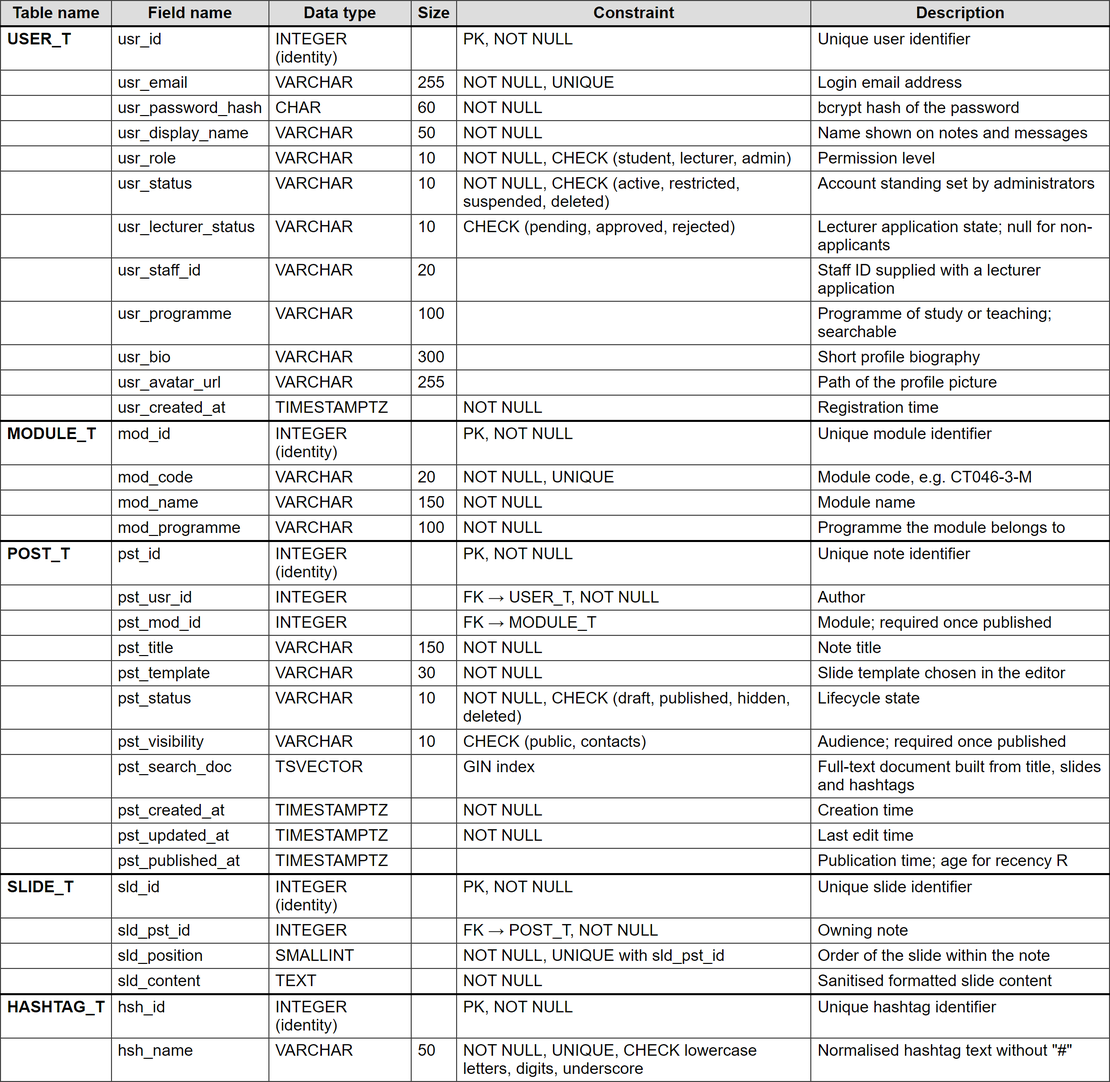
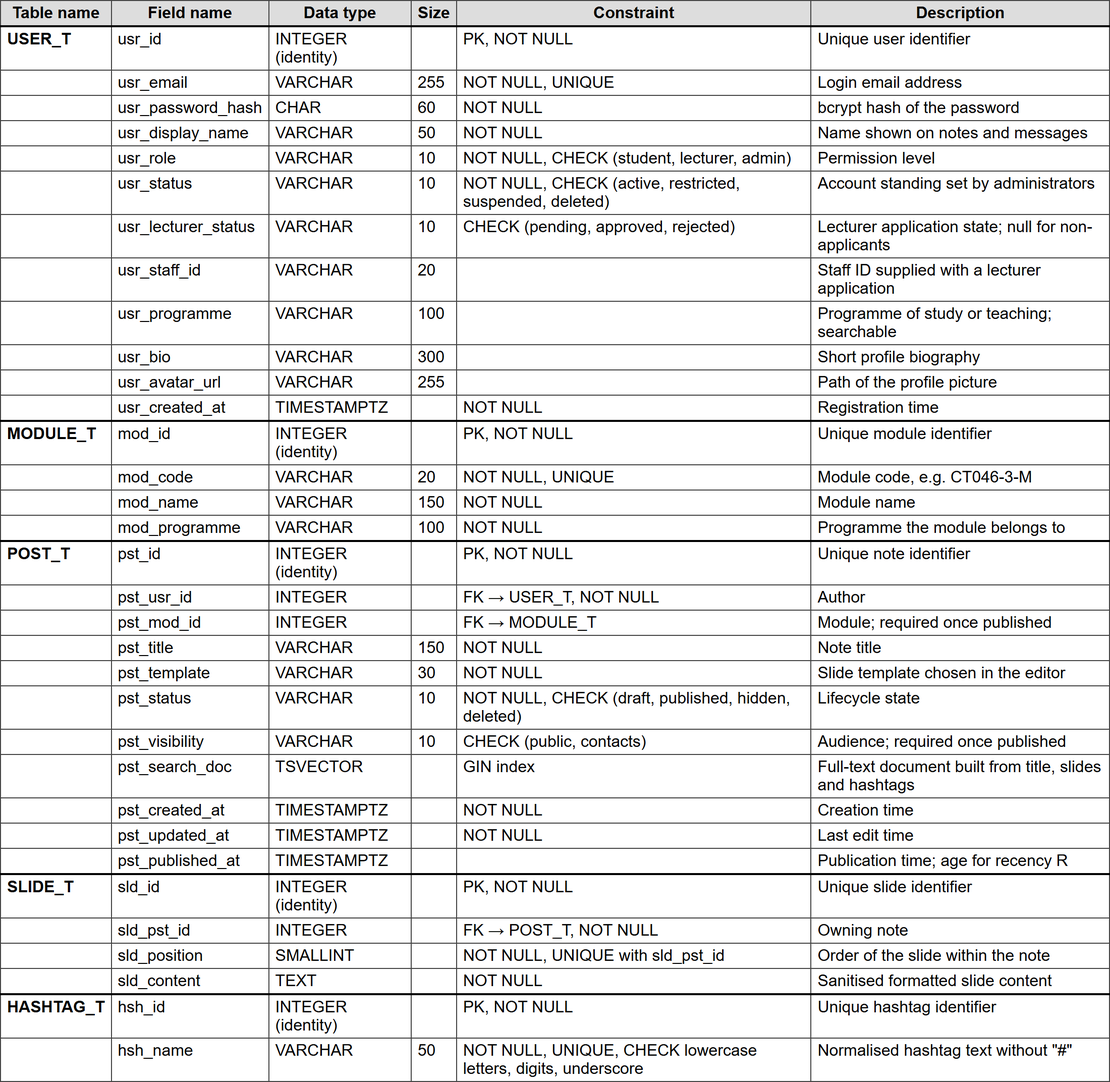
Add snapshot and rate limit tables to Chapter 4.3
Schema table gains FEED_SNAPSHOT_T and RATE_LIMIT_T, ERD prose explains FOLLOW_T, the snapshot and the counter table, later indexes are listed, schema images regenerated (now four) and CHAPTER4.md rebuilt.

diff --git a/docs/chapter4/CHAPTER4.md b/docs/chapter4/CHAPTER4.md
@@ -20,7 +20,7 @@
 
 	The Administrator actor is placed on the opposite side of the system boundary because its use cases concern moderation rather than content. Administrators review reported content (UC20), suspend, restrict or delete accounts (UC21), and approve lecturer registrations (UC22). The last of these was added during design and is not listed in the Investigation Report; without it, any user could select the lecturer role at registration and verify their own notes, which would undermine the lecturer validation component that carries the joint-highest weight in the ranking formula (Section 2.3.4.4). Administrators also share the Search Content (UC14) and Log Out (UC03) use cases, the former supporting moderation searches by username or hashtag as specified in Section 1.6.4.
 
-	Four relationships refine the base use cases. Assign Module and Hashtags is an included use case of Create Slide Note because hashtags are mandatory at creation; the relevance component of the ranking formula divides by the number of hashtags on a post, so a note without hashtags cannot be scored. Save Draft, Reply to Comment, Filter by Lecturer or Date Range, and Send Message Request are modelled as extensions because each occurs only under a condition: the author chooses not to publish yet, the user responds to an existing comment, the user narrows a result set, or the recipient of a post-anchored message is not yet a contact. The last extension implements FR6, which requires approval before a non-contact can deliver a message.
+	Four relationships refine the base use cases. Assign Module and Hashtags is an included use case of Create Slide Note because hashtags are mandatory at creation; the relevance component of the ranking formula divides by the number of hashtags on a post, so a note without hashtags cannot be scored. Save Draft, Reply to Comment, Filter by Lecturer or Date Range, and Send Message Request are modelled as extensions because each occurs only under a condition: the author chooses not to publish yet, the user responds to an existing comment, the user narrows a result set, or the recipient of a post-anchored message is not yet a friend (a user who follows the sender and is followed back). The last extension implements FR6, which requires approval before a non-friend can deliver a message.
 
 	Three low-priority requirements from Table 14 are not represented as use cases. Background audio on slide notes (FR17) and peer annotation (FR18) were removed from the Part II scope, and filtering by academic term (FR15) was reworked into a published-date filter. The justification for each change is recorded in the Sprint 0 review, consistent with the agreement with the supervisor that low-priority requirements are cut or reworked only with written justification.
 
@@ -81,7 +81,7 @@
 | Preconditions | The user is logged in. |
 | Postconditions | Updated profile details are stored and shown on the user's notes and profile page. |
 | Standard Process | 1. User opens their profile page. <br> 2. System displays profile details and the user's notes. <br> 3. User selects "Edit Profile". <br> 4. User edits the fields and saves. <br> 5. System validates and stores the changes. <br> 6. System displays the updated profile. |
-| Alternative Process | **Step 1a: User views another user's profile** <br> 1a.1 System displays that user's public details and only the notes the viewer is allowed to see (public, or contacts-only if the two users are contacts). <br> 1a.2 Use case ends without editing. |
+| Alternative Process | **Step 1a: User views another user's profile** <br> 1a.1 System displays that user's public details and only the notes the viewer is allowed to see (public, or contacts-only if the two users are friends, meaning they follow each other). <br> 1a.2 Use case ends without editing. |
 | Exception Flow | **Step 5a: Invalid input** <br> 5a.1 System rejects an empty display name or an image larger than 2 MB and returns to step 4. |
 
 *Table 4.5: UC05 Create Slide Note use case specification*
@@ -117,13 +117,13 @@
 | **Component** | **Description** |
 | --- | --- |
 | Use case | UC07_Publish Note |
-| Description | Allows an author to publish a completed note with a chosen visibility. Public notes enter every viewer's ranked feed; contacts-only notes are visible to the author's contacts. |
+| Description | Allows an author to publish a completed note with a chosen visibility. Public notes enter every viewer's ranked feed; contacts-only notes are visible to the author's friends (users who follow each other). |
 | Actors | Student, Lecturer |
 | Requirements | FR10, FR9; FR2 (lecturer badge on lecturer-authored notes) |
 | Preconditions | The note has a title, at least one non-empty slide, a module and at least one hashtag. |
 | Postconditions | The note is stored with status "published", a visibility value and a publication time, and becomes eligible for the feed and search. |
 | Standard Process | 1. User selects "Publish". <br> 2. System displays three visibility options of equal size: Public, Contacts only, Keep as private draft. <br> 3. User selects Public. <br> 4. System validates completeness. <br> 5. System stores the note as published and records the publication time. <br> 6. System opens the published note. |
-| Alternative Process | **Step 3a: User selects Contacts only** <br> 3a.1 System publishes the note visible only to the author's contacts. <br> **Step 3b: User selects Keep as private draft** <br> 3b.1 System performs UC06_Save Draft instead. <br> **Step 6a: Author is an approved lecturer** <br> 6a.1 System shows the lecturer checkmark badge on the author's picture in the note. |
+| Alternative Process | **Step 3a: User selects Contacts only** <br> 3a.1 System publishes the note visible only to the author's friends. <br> **Step 3b: User selects Keep as private draft** <br> 3b.1 System performs UC06_Save Draft instead. <br> **Step 6a: Author is an approved lecturer** <br> 6a.1 System shows the lecturer checkmark badge on the author's picture in the note. |
 | Exception Flow | **Step 4a: Note incomplete** <br> 4a.1 System lists the missing elements and returns to the editor. |
 
 *Table 4.8: UC08 Edit or Delete Own Note use case specification*
@@ -233,9 +233,9 @@
 | Actors | Student, Lecturer |
 | Requirements | FR7, FR6 (extension Send Message Request), Objective 4 |
 | Preconditions | The user is logged in, can see the note, and is not its author. |
-| Postconditions | A message referencing the note is delivered to the author's conversation, or held as a pending message request if the two users are not contacts. |
-| Standard Process | 1. User selects "Message author" on a note. <br> 2. System opens a chat window with the note preview card attached. <br> 3. User types a message and sends it. <br> 4. System confirms the two users are contacts. <br> 5. System stores the message with the note reference and delivers it in real time. <br> 6. Recipient sees the message and note card in the conversation. |
-| Alternative Process | **Step 4a: Users are not contacts (Send Message Request)** <br> 4a.1 System stores the message as a pending message request instead of delivering it to the conversation. <br> 4a.2 System notifies the recipient of a new request. <br> 4a.3 Sender sees "Request sent; you can message freely once accepted". |
+| Postconditions | A message referencing the note is delivered to the author's conversation, or held as a pending message request if the two users are not friends. |
+| Standard Process | 1. User selects "Message author" on a note. <br> 2. System opens a chat window with the note preview card attached. <br> 3. User types a message and sends it. <br> 4. System confirms the two users are friends (each follows the other). <br> 5. System stores the message with the note reference and delivers it in real time. <br> 6. Recipient sees the message and note card in the conversation. |
+| Alternative Process | **Step 4a: Users are not friends (Send Message Request)** <br> 4a.1 System stores the message as a pending message request instead of delivering it to the conversation. <br> 4a.2 System notifies the recipient of a new request. <br> 4a.3 Sender sees "Request sent; you can message freely once accepted". |
 | Exception Flow | **Step 4b: A pending request already exists** <br> 4b.1 System informs the sender and does not create another request. <br> **Step 4c: Recipient previously declined the sender** <br> 4c.1 System does not deliver the request and shows the same "Request sent" message, so the decline is not disclosed. |
 
 *Table 4.16: UC16 Respond to Message Request use case specification*
@@ -243,24 +243,24 @@
 | **Component** | **Description** |
 | --- | --- |
 | Use case | UC16_Respond to Message Request |
-| Description | Allows a recipient to accept or decline a message request from a non-contact. Accepting makes both users contacts and delivers the held message. |
+| Description | Allows a recipient to accept or decline a message request from a non-friend. Accepting opens a conversation and delivers the held message, without making the two users friends. |
 | Actors | Student, Lecturer |
 | Requirements | FR6 |
 | Preconditions | The user has at least one pending message request. |
-| Postconditions | The request is accepted (users become contacts and a conversation opens) or declined (no conversation is created). |
-| Standard Process | 1. User opens "Message Requests". <br> 2. System lists pending requests with sender, attached note card and first message. <br> 3. User selects "Accept". <br> 4. System records both users as contacts, creates the conversation and moves the held message into it. <br> 5. System notifies the sender in real time. |
+| Postconditions | The request is accepted (a conversation opens, but the users do not become friends) or declined (no conversation is created). |
+| Standard Process | 1. User opens "Message Requests". <br> 2. System lists pending requests with sender, attached note card and first message. <br> 3. User selects "Accept". <br> 4. System creates the direct conversation and moves the held message into it. <br> 5. System notifies the sender in real time. |
 | Alternative Process | **Step 3a: User declines** <br> 3a.1 System marks the request declined and removes it from the list. The sender is not notified. |
 | Exception Flow | **Step 4a: Sender account suspended meanwhile** <br> 4a.1 System removes the request and displays "This user is unavailable". |
 
-*Table 4.17: UC17 Chat with Contact use case specification*
+*Table 4.17: UC17 Chat with Friend use case specification*
 
 | **Component** | **Description** |
 | --- | --- |
-| Use case | UC17_Chat with Contact |
-| Description | Allows two contacts to exchange private messages in real time, with optional note cards attached. |
+| Use case | UC17_Chat with Friend |
+| Description | Allows two friends to exchange private messages in real time, with optional note cards attached. |
 | Actors | Student, Lecturer |
 | Requirements | FR9, IR deliverable "direct private messaging with established friends" |
-| Preconditions | Both users are contacts. |
+| Preconditions | Both users are friends (they follow each other). |
 | Postconditions | Messages are stored and delivered to the other participant. |
 | Standard Process | 1. User opens Messages. <br> 2. System lists conversations ordered by latest message. <br> 3. User opens a conversation. <br> 4. System loads recent messages. <br> 5. User types and sends a message. <br> 6. System stores it and pushes it to the other participant over the socket connection. |
 | Alternative Process | **Step 6a: Recipient offline** <br> 6a.1 The message is stored and appears, with an unread count, when the recipient next opens Messages. <br> **Step 5a: User attaches a note** <br> 5a.1 User selects "Attach note" and picks a note they can see; the message carries the note card. |
@@ -271,13 +271,13 @@
 | **Component** | **Description** |
 | --- | --- |
 | Use case | UC18_Manage Group Chat |
-| Description | Allows a user to create a named group chat with contacts for coursework teams, add or remove members, and leave the group. |
+| Description | Allows a user to create a named group chat with friends for coursework teams, add or remove members, and leave the group. |
 | Actors | Student, Lecturer |
 | Requirements | FR13 |
-| Preconditions | The user is logged in and has at least two contacts. |
+| Preconditions | The user is logged in and has at least two friends. |
 | Postconditions | A named group conversation exists with the selected members, who can exchange messages as in UC17. |
-| Standard Process | 1. User selects "New Group". <br> 2. System displays a name field and the user's contacts. <br> 3. User enters a group name and selects two or more contacts. <br> 4. User selects "Create". <br> 5. System creates the group with the user as owner and notifies members. |
-| Alternative Process | **Step 1a: Owner manages an existing group** <br> 1a.1 Owner renames the group, adds contacts or removes members. <br> **Step 1b: Member leaves** <br> 1b.1 Member selects "Leave group" and no longer receives its messages. |
+| Standard Process | 1. User selects "New Group". <br> 2. System displays a name field and the user's friends. <br> 3. User enters a group name and selects two or more friends. <br> 4. User selects "Create". <br> 5. System creates the group with the user as owner and notifies members. |
+| Alternative Process | **Step 1a: Owner manages an existing group** <br> 1a.1 Owner renames the group, adds friends or removes members. <br> **Step 1b: Member leaves** <br> 1b.1 Member selects "Leave group" and no longer receives its messages. |
 | Exception Flow | **Step 4a: Name empty or fewer than two members** <br> 4a.1 System disables "Create" and states the requirement. |
 
 *Table 4.19: UC19 Super Like (Verify) Note use case specification*
@@ -344,7 +344,7 @@
 
 	Figure 4.2 shows the static structure of PARP as domain classes, their attributes and operations, and the two services that hold the system's core logic. The User hierarchy mirrors the use case diagram: User is abstract and holds identity, credentials, role and account status together with the operations every account shares, namely registration, login, logout, profile update and search. Student adds the content and communication operations, Lecturer specialises Student with the Super Like operations and its staff identifier, and Administrator carries the moderation operations. Modelling Lecturer as a subclass of Student, rather than as a sibling, expresses in the type structure the same rule the server enforces at run time: a lecturer can do everything a student can, plus verification.
 
-	Post is the central content class and is composed of one or more Slide objects, drawn as composition because a slide has no existence outside its note and is deleted with it. Comment is likewise composed into Post and has a reflexive association that represents one level of replies. Post is associated with Hashtag in a many-to-many relationship, and with Like, Verification, Bookmark, Report and Interaction as association classes that record who acted on which note and when. The messaging classes are separated from content: MessageRequest holds a first message from a non-contact and creates a Conversation when accepted, Conversation is composed of Message objects, and both MessageRequest and Message carry an optional association to Post, which is the class-level expression of post-anchored messaging (FR7).
+	Post is the central content class and is composed of one or more Slide objects, drawn as composition because a slide has no existence outside its note and is deleted with it. Comment is likewise composed into Post and has a reflexive association that represents one level of replies. Post is associated with Hashtag in a many-to-many relationship, and with Like, Verification, Bookmark, Report and Interaction as association classes that record who acted on which note and when. The messaging classes are separated from content: MessageRequest holds a first message from a non-friend and creates a Conversation when accepted, Conversation is composed of Message objects, and both MessageRequest and Message carry an optional association to Post, which is the class-level expression of post-anchored messaging (FR7).
 
 	RankingService and SearchService are drawn as service classes because they own behaviour that spans many entities. RankingService exposes one operation per component of the scoring formula in Section 2.3.4, namely engagement, recency, validation and relevance, together with buildInterestVector and the composite score operation. Separating the components into individual operations allows each to be unit tested against fixed inputs, which is the verification approach committed to in Section 2.3.4.10. Every weight and constant is read from RankingConfig, a single configuration object whose initial values are those of Section 2.3.4.7, so that the re-evaluation of the weights required by NFR5 after user acceptance testing changes one file and no scoring code.
 
@@ -380,7 +380,7 @@
 
 *Figure 4.7: Activity diagram for post-anchored messaging*
 
-	Figure 4.7 shows how a user messages the author of a note (UC15 and UC16), which delivers Objective 4. The message always carries the note it was sent from, so the conversation opens with its academic context attached. The first decision applies FR6: messages between contacts are delivered immediately, while a message to a non-contact is held as a request. Duplicate requests are prevented, and the recipient's decision determines the outcome. Accepting adds both users as contacts, creates the conversation and moves the held message into it; declining closes the request without notifying the sender. This design reflects the survey finding that 75 percent of respondents wanted approval before receiving messages from non-contacts, while keeping the note-anchored first message that 78.1 percent rated useful.
+	Figure 4.7 shows how a user messages the author of a note (UC15 and UC16), which delivers Objective 4. The message always carries the note it was sent from, so the conversation opens with its academic context attached. The first decision applies FR6: messages between friends (two users who follow each other) are delivered immediately, while a message to a non-friend is held as a request. Duplicate requests are prevented, and the recipient's decision determines the outcome. Accepting creates the conversation and moves the held message into it, but does not make the two users friends; declining closes the request without notifying the sender. This design reflects the survey finding that 75 percent of respondents wanted approval before receiving messages from non-friends, while keeping the note-anchored first message that 78.1 percent rated useful.
 
 # 4.2.5 Sequence Diagrams
 
@@ -414,7 +414,7 @@
 
 *Figure 4.12: Sequence diagram for post-anchored messaging*
 
-	Figure 4.12 shows messaging over Socket.io, where the connection is authenticated with the same JSON Web Token during the handshake, so every event already carries a verified sender. MessagingService checks the contact relationship first. For contacts, the message is stored with its post reference and pushed to a room named after the recipient, so delivery reaches every device on which the recipient is connected. For non-contacts, the message is stored as a pending request, and a partial unique index in the database rejects a second pending request between the same pair, so the duplicate check cannot be bypassed by concurrent requests. Acceptance is processed in one transaction that updates the request, creates the two contact rows and the conversation, and moves the held message, so the two users never become contacts without the conversation that should accompany it.
+	Figure 4.12 shows messaging over Socket.io, where the connection is authenticated with the same JSON Web Token during the handshake, so every event already carries a verified sender. MessagingService checks friendship first, which is a mutual follow: a row in FOLLOW_T in each direction. For friends, the message is stored with its post reference and pushed to a room named after the recipient, so delivery reaches every device on which the recipient is connected. For non-friends, the message is stored as a pending request, and a partial unique index in the database rejects a second pending request between the same pair, so the duplicate check cannot be bypassed by concurrent requests. Acceptance is processed in one transaction that updates the request, creates the conversation and moves the held message, so a request is never marked accepted without the conversation that should accompany it. Acceptance does not create follow rows, because friendship is decided only by the users' own follows.
 
 # 4.3 Database Design
 
@@ -424,19 +424,21 @@
 
 *Figure 4.13: PARP entity relationship diagram (crow's foot notation)*
 
-	Figure 4.13 presents the relational data model of PARP as nineteen entities in crow's foot notation. The model is organised around two central entities. USER_T holds every account, with a single role attribute distinguishing students, lecturers and administrators rather than three separate tables, because the three roles share all identity attributes and a lecturer differs from a student only in permissions. POST_T holds each slide note and references its author and its module; the slides themselves are stored in SLIDE_T as an ordered one-to-many child, since a note contains a variable number of slides that must keep their sequence. A post may exist without a module only while it is a draft, and a check constraint enforces that a published post always has a module, a visibility value and a publication time, which keeps the feed and search queries free of incomplete rows.
+	Figure 4.13 presents the relational data model of PARP as twenty-one entities in crow's foot notation. The model is organised around two central entities. USER_T holds every account, with a single role attribute distinguishing students, lecturers and administrators rather than three separate tables, because the three roles share all identity attributes and a lecturer differs from a student only in permissions. POST_T holds each slide note and references its author and its module; the slides themselves are stored in SLIDE_T as an ordered one-to-many child, since a note contains a variable number of slides that must keep their sequence. A post may exist without a module only while it is a draft, and a check constraint enforces that a published post always has a module, a visibility value and a publication time, which keeps the feed and search queries free of incomplete rows.
 
 	The entities around POST_T map directly to the four components of the ranking formula in Section 2.3.4. LIKE_T and COMMENT_T provide the like and comment counts for the engagement component E. The publication time on POST_T provides the age for the recency component R. VERIFICATION_T records each lecturer Super Like and, together with the author's role, determines the lecturer validation component V. HASHTAG_T, linked to posts through the associative entity POST_HASHTAG_T, and INTERACTION_T together provide the relevance component M: INTERACTION_T is an append-only log of the views, likes and comments each user performs, from which the viewer's decayed interest weight for each hashtag is calculated. Storing raw interactions instead of a pre-computed interest vector keeps the 14-day decay exact and allows the weights to be re-tuned after user acceptance testing (NFR5) without migrating stored data.
 
-	The remaining entities serve engagement, moderation and messaging. COMMENT_T references itself through cmt_parent_id to support one level of replies (FR16), and COMMENT_LIKE_T supplies the like counts that order student comments beneath pinned lecturer comments. BOOKMARK_T implements the saved-notes list (FR14), and REPORT_T together with ACCOUNT_ACTION_T record the moderation workflow, including which administrator resolved each report or changed each account status. FOLLOW_T records who follows whom, one row per direction; when two users follow each other they are friends, who may see each other's contacts-only notes (FR10) and message each other directly. Messaging is separated into MESSAGE_REQUEST_T, which holds a first message from a non-friend until the recipient approves it (FR6), and CONVERSATION_T, CONV_MEMBER_T and MESSAGE_T, which hold direct and group conversations (FR13); approving a request opens that conversation without making the two users friends. Both MESSAGE_REQUEST_T and MESSAGE_T carry an optional reference to POST_T, which is how a message is anchored to a specific note (FR7, Objective 4). For legibility, Figure 4.13 draws one relationship line per pair of entities; the second foreign keys to USER_T in FOLLOW_T, MESSAGE_REQUEST_T, REPORT_T, CONVERSATION_T and ACCOUNT_ACTION_T are listed in Table 4.23.
+	The remaining entities serve engagement, moderation and messaging. COMMENT_T references itself through cmt_parent_id to support one level of replies (FR16), and COMMENT_LIKE_T supplies the like counts that order student comments beneath pinned lecturer comments. BOOKMARK_T implements the saved-notes list (FR14), and REPORT_T together with ACCOUNT_ACTION_T record the moderation workflow, including which administrator resolved each report or changed each account status. FOLLOW_T records who follows whom, one row per direction; when two users follow each other they are friends, who may see each other's contacts-only notes (FR10) and message each other directly. Messaging is separated into MESSAGE_REQUEST_T, which holds a first message from a non-friend until the recipient approves it (FR6), and CONVERSATION_T, CONV_MEMBER_T and MESSAGE_T, which hold direct and group conversations (FR13); approving a request opens that conversation without making the two users friends. Both MESSAGE_REQUEST_T and MESSAGE_T carry an optional reference to POST_T, which is how a message is anchored to a specific note (FR7, Objective 4). For legibility, Figure 4.13 draws one relationship line per pair of entities, except FOLLOW_T, which is drawn twice because it references USER_T as both follower and followee; the second foreign keys to USER_T in MESSAGE_REQUEST_T, REPORT_T, CONVERSATION_T and ACCOUNT_ACTION_T are listed in Table 4.23.
+
+	Two entities were added after the first design to meet the scale and reliability targets, and a third replaced an earlier one. FOLLOW_T replaced the original CONTACT_T, which stored a symmetric pair created by an accepted message request. A directed follow with a composite primary key and a check that a user cannot follow themselves is a single relationship from which friendship is derived at query time as a pair of follows in opposite directions, so there is no second table that could drift out of step; the migration that introduced it copied each existing contact into both directions. FEED_SNAPSHOT_T stores, for one viewer and one request time, the ranked list of post identifiers and their scores as arrays. The first page of the For You feed ranks the candidates once and writes this row, and later pages read a slice of it, so that a viewer paging through the feed sees a stable order and the ranking work is not repeated for every page; rows are short-lived and are deleted when they expire. RATE_LIMIT_T is an operational table with no foreign key to any other entity: it holds one counter per rate-limit key (a user identifier or an address) and time window, so that the request limits are enforced consistently across several server instances. It is therefore drawn in Figure 4.13 as a standalone entity.
 
 ## 4.3.2 Database Schema
 
-	Table 4.23 lists every table, field, data type, size and constraint of the schema. Table names follow the uppercase singular form with a _T suffix, and field names are lowercase with a three-letter table prefix, so that a field's origin is visible in any query. Because PostgreSQL folds unquoted identifiers to lowercase, table names are written in double quotes in every SQL statement so that the live database matches this schema exactly. Five PostgreSQL-specific types are used where a generic type would be weaker: identity columns generate primary keys without separate sequences, TIMESTAMPTZ stores times with their offset so that recency decay is correct regardless of server time zone, TEXT holds slide content of unpredictable length, TSVECTOR stores the pre-processed search document for full-text search (FR12), and BIGINT is used for the two tables expected to grow fastest, INTERACTION_T and MESSAGE_T. The password hash uses CHAR(60) because bcrypt output is always exactly sixty characters.
+	Table 4.23 lists every table, field, data type, size and constraint of the schema. Table names follow the uppercase singular form with a _T suffix, and field names are lowercase with a three-letter table prefix, so that a field's origin is visible in any query. Because PostgreSQL folds unquoted identifiers to lowercase, table names are written in double quotes in every SQL statement so that the live database matches this schema exactly. Six PostgreSQL-specific types are used where a generic type would be weaker: identity columns generate primary keys without separate sequences, TIMESTAMPTZ stores times with their offset so that recency decay is correct regardless of server time zone, TEXT holds slide content of unpredictable length, TSVECTOR stores the pre-processed search document for full-text search (FR12), array types (INTEGER[] and DOUBLE PRECISION[]) hold the ranked list in FEED_SNAPSHOT_T as one row, and BIGINT is used for the two tables expected to grow fastest, INTERACTION_T and MESSAGE_T. The password hash uses CHAR(60) because bcrypt output is always exactly sixty characters.
 
 *Table 4.23: PARP database schema*
 
-The schema table is also rendered as high-resolution images for the report: `diagrams/png/schema_table_1.png` to `schema_table_3.png`.
+The schema table is also rendered as high-resolution images for the report: `diagrams/png/schema_table_1.png` to `schema_table_4.png`.
 
 | Table name | Field name | Data type | Size | Constraint | Description |
 | --- | --- | --- | --- | --- | --- |
@@ -545,8 +547,25 @@ The schema table is also rendered as high-resolution images for the report: `dia
 | | aac_action | VARCHAR | 20 | NOT NULL, CHECK (restrict, suspend, reinstate, delete, approve_lecturer, reject_lecturer) | Action taken |
 | | aac_reason | VARCHAR | 300 | NOT NULL | Recorded justification |
 | | aac_created_at | TIMESTAMPTZ | | NOT NULL | Time of action |
+| FEED_SNAPSHOT_T | fsn_usr_id | INTEGER | | PK, FK → USER_T, NOT NULL, ON DELETE CASCADE | Viewer the snapshot was ranked for |
+| | fsn_as_of | TIMESTAMPTZ | | PK, NOT NULL | Request time the ranking is pinned to |
+| | fsn_pst_ids | INTEGER[] | | NOT NULL | Post identifiers in ranked order; later pages read a slice |
+| | fsn_scores | DOUBLE PRECISION[] | | NOT NULL | Score and components for each post, in the same order |
+| | fsn_created_at | TIMESTAMPTZ | | NOT NULL, default now; indexed | Time stored; used to purge expired snapshots |
+| RATE_LIMIT_T | rlt_key | VARCHAR | 200 | PK, NOT NULL | Rate-limit key built from the user identifier or client address |
+| | rlt_window_start | TIMESTAMPTZ | | NOT NULL | Start of the current fixed window |
+| | rlt_hits | INTEGER | | NOT NULL | Requests counted in the window |
 
-	The schema is created by the versioned migration file `server/db/migrations/20261013000001_initial_schema.sql`, so that every later change is recorded as a new migration rather than an edit to the live database. Indexes are defined for the access paths that determine performance: published posts ordered by publication time for the feed, the GIN index on pst_search_doc and the hashtag index on POST_HASHTAG_T for the sub-three-second search target (FR5, NFR1), and the user and time index on INTERACTION_T for building interest vectors.
+
+	The schema is created by the versioned migration file `server/db/migrations/20261013000001_initial_schema.sql`, so that every later change is recorded as a new migration rather than an edit to the live database. Indexes are defined for the access paths that determine performance: published posts ordered by publication time for the feed, the GIN index on pst_search_doc and the hashtag index on POST_HASHTAG_T for the sub-three-second search target (FR5, NFR1), and the user and time index on INTERACTION_T for building interest vectors. Migrations added after the initial schema create further indexes, each for one access path:
+
+- `comment_like_comment_idx` on COMMENT_LIKE_T (clk_cmt_id): counts the likes of each comment when comments are listed.
+- `interaction_user_post_time_idx` on INTERACTION_T (int_usr_id, int_pst_id, int_created_at DESC): finds a viewer's latest interaction with a note for the view-logging window and the interest vector.
+- `report_post_idx` on REPORT_T (rpt_pst_id): groups reports by note in the moderation queue.
+- `message_request_recipient_pending_idx` on MESSAGE_REQUEST_T (mrq_recipient_id), partial on pending requests: lists a recipient's open requests without scanning resolved ones.
+- `follow_followee_idx` on FOLLOW_T (fol_followee_id): lists a user's followers and checks the reverse direction of a follow.
+- `feed_snapshot_created_idx` on FEED_SNAPSHOT_T (fsn_created_at): deletes expired snapshots.
+- `comment_parent_idx` on COMMENT_T (cmt_parent_id), partial on replies: checks whether a deleted top-level comment still has live replies.
 
 # 4.4 Interface Design
 

diff --git a/docs/chapter4/4.3_database_design.md b/docs/chapter4/4.3_database_design.md
@@ -6,19 +6,21 @@
 
 *Figure 4.x: PARP entity relationship diagram (crow's foot notation)*
 
-	Figure 4.x presents the relational data model of PARP as nineteen entities in crow's foot notation. The model is organised around two central entities. USER_T holds every account, with a single role attribute distinguishing students, lecturers and administrators rather than three separate tables, because the three roles share all identity attributes and a lecturer differs from a student only in permissions. POST_T holds each slide note and references its author and its module; the slides themselves are stored in SLIDE_T as an ordered one-to-many child, since a note contains a variable number of slides that must keep their sequence. A post may exist without a module only while it is a draft, and a check constraint enforces that a published post always has a module, a visibility value and a publication time, which keeps the feed and search queries free of incomplete rows.
+	Figure 4.x presents the relational data model of PARP as twenty-one entities in crow's foot notation. The model is organised around two central entities. USER_T holds every account, with a single role attribute distinguishing students, lecturers and administrators rather than three separate tables, because the three roles share all identity attributes and a lecturer differs from a student only in permissions. POST_T holds each slide note and references its author and its module; the slides themselves are stored in SLIDE_T as an ordered one-to-many child, since a note contains a variable number of slides that must keep their sequence. A post may exist without a module only while it is a draft, and a check constraint enforces that a published post always has a module, a visibility value and a publication time, which keeps the feed and search queries free of incomplete rows.
 
 	The entities around POST_T map directly to the four components of the ranking formula in Section 2.3.4. LIKE_T and COMMENT_T provide the like and comment counts for the engagement component E. The publication time on POST_T provides the age for the recency component R. VERIFICATION_T records each lecturer Super Like and, together with the author's role, determines the lecturer validation component V. HASHTAG_T, linked to posts through the associative entity POST_HASHTAG_T, and INTERACTION_T together provide the relevance component M: INTERACTION_T is an append-only log of the views, likes and comments each user performs, from which the viewer's decayed interest weight for each hashtag is calculated. Storing raw interactions instead of a pre-computed interest vector keeps the 14-day decay exact and allows the weights to be re-tuned after user acceptance testing (NFR5) without migrating stored data.
 
-	The remaining entities serve engagement, moderation and messaging. COMMENT_T references itself through cmt_parent_id to support one level of replies (FR16), and COMMENT_LIKE_T supplies the like counts that order student comments beneath pinned lecturer comments. BOOKMARK_T implements the saved-notes list (FR14), and REPORT_T together with ACCOUNT_ACTION_T record the moderation workflow, including which administrator resolved each report or changed each account status. FOLLOW_T records who follows whom, one row per direction; when two users follow each other they are friends, who may see each other's contacts-only notes (FR10) and message each other directly. Messaging is separated into MESSAGE_REQUEST_T, which holds a first message from a non-friend until the recipient approves it (FR6), and CONVERSATION_T, CONV_MEMBER_T and MESSAGE_T, which hold direct and group conversations (FR13); approving a request opens that conversation without making the two users friends. Both MESSAGE_REQUEST_T and MESSAGE_T carry an optional reference to POST_T, which is how a message is anchored to a specific note (FR7, Objective 4). For legibility, Figure 4.x draws one relationship line per pair of entities; the second foreign keys to USER_T in FOLLOW_T, MESSAGE_REQUEST_T, REPORT_T, CONVERSATION_T and ACCOUNT_ACTION_T are listed in Table [[next]].
+	The remaining entities serve engagement, moderation and messaging. COMMENT_T references itself through cmt_parent_id to support one level of replies (FR16), and COMMENT_LIKE_T supplies the like counts that order student comments beneath pinned lecturer comments. BOOKMARK_T implements the saved-notes list (FR14), and REPORT_T together with ACCOUNT_ACTION_T record the moderation workflow, including which administrator resolved each report or changed each account status. FOLLOW_T records who follows whom, one row per direction; when two users follow each other they are friends, who may see each other's contacts-only notes (FR10) and message each other directly. Messaging is separated into MESSAGE_REQUEST_T, which holds a first message from a non-friend until the recipient approves it (FR6), and CONVERSATION_T, CONV_MEMBER_T and MESSAGE_T, which hold direct and group conversations (FR13); approving a request opens that conversation without making the two users friends. Both MESSAGE_REQUEST_T and MESSAGE_T carry an optional reference to POST_T, which is how a message is anchored to a specific note (FR7, Objective 4). For legibility, Figure 4.x draws one relationship line per pair of entities, except FOLLOW_T, which is drawn twice because it references USER_T as both follower and followee; the second foreign keys to USER_T in MESSAGE_REQUEST_T, REPORT_T, CONVERSATION_T and ACCOUNT_ACTION_T are listed in Table [[next]].
+
+	Two entities were added after the first design to meet the scale and reliability targets, and a third replaced an earlier one. FOLLOW_T replaced the original CONTACT_T, which stored a symmetric pair created by an accepted message request. A directed follow with a composite primary key and a check that a user cannot follow themselves is a single relationship from which friendship is derived at query time as a pair of follows in opposite directions, so there is no second table that could drift out of step; the migration that introduced it copied each existing contact into both directions. FEED_SNAPSHOT_T stores, for one viewer and one request time, the ranked list of post identifiers and their scores as arrays. The first page of the For You feed ranks the candidates once and writes this row, and later pages read a slice of it, so that a viewer paging through the feed sees a stable order and the ranking work is not repeated for every page; rows are short-lived and are deleted when they expire. RATE_LIMIT_T is an operational table with no foreign key to any other entity: it holds one counter per rate-limit key (a user identifier or an address) and time window, so that the request limits are enforced consistently across several server instances. It is therefore drawn in Figure 4.x as a standalone entity.
 
 ## 4.3.2 Database Schema
 
-	Table [[next]] lists every table, field, data type, size and constraint of the schema. Table names follow the uppercase singular form with a _T suffix, and field names are lowercase with a three-letter table prefix, so that a field's origin is visible in any query. Because PostgreSQL folds unquoted identifiers to lowercase, table names are written in double quotes in every SQL statement so that the live database matches this schema exactly. Five PostgreSQL-specific types are used where a generic type would be weaker: identity columns generate primary keys without separate sequences, TIMESTAMPTZ stores times with their offset so that recency decay is correct regardless of server time zone, TEXT holds slide content of unpredictable length, TSVECTOR stores the pre-processed search document for full-text search (FR12), and BIGINT is used for the two tables expected to grow fastest, INTERACTION_T and MESSAGE_T. The password hash uses CHAR(60) because bcrypt output is always exactly sixty characters.
+	Table [[next]] lists every table, field, data type, size and constraint of the schema. Table names follow the uppercase singular form with a _T suffix, and field names are lowercase with a three-letter table prefix, so that a field's origin is visible in any query. Because PostgreSQL folds unquoted identifiers to lowercase, table names are written in double quotes in every SQL statement so that the live database matches this schema exactly. Six PostgreSQL-specific types are used where a generic type would be weaker: identity columns generate primary keys without separate sequences, TIMESTAMPTZ stores times with their offset so that recency decay is correct regardless of server time zone, TEXT holds slide content of unpredictable length, TSVECTOR stores the pre-processed search document for full-text search (FR12), array types (INTEGER[] and DOUBLE PRECISION[]) hold the ranked list in FEED_SNAPSHOT_T as one row, and BIGINT is used for the two tables expected to grow fastest, INTERACTION_T and MESSAGE_T. The password hash uses CHAR(60) because bcrypt output is always exactly sixty characters.
 
 *Table 4.x: PARP database schema*
 
-The schema table is also rendered as high-resolution images for the report: `diagrams/png/schema_table_1.png` to `schema_table_3.png`.
+The schema table is also rendered as high-resolution images for the report: `diagrams/png/schema_table_1.png` to `schema_table_4.png`.
 
 | Table name | Field name | Data type | Size | Constraint | Description |
 | --- | --- | --- | --- | --- | --- |
@@ -127,5 +129,23 @@ The schema table is also rendered as high-resolution images for the report: `dia
 | | aac_action | VARCHAR | 20 | NOT NULL, CHECK (restrict, suspend, reinstate, delete, approve_lecturer, reject_lecturer) | Action taken |
 | | aac_reason | VARCHAR | 300 | NOT NULL | Recorded justification |
 | | aac_created_at | TIMESTAMPTZ | | NOT NULL | Time of action |
+| FEED_SNAPSHOT_T | fsn_usr_id | INTEGER | | PK, FK → USER_T, NOT NULL, ON DELETE CASCADE | Viewer the snapshot was ranked for |
+| | fsn_as_of | TIMESTAMPTZ | | PK, NOT NULL | Request time the ranking is pinned to |
+| | fsn_pst_ids | INTEGER[] | | NOT NULL | Post identifiers in ranked order; later pages read a slice |
+| | fsn_scores | DOUBLE PRECISION[] | | NOT NULL | Score and components for each post, in the same order |
+| | fsn_created_at | TIMESTAMPTZ | | NOT NULL, default now; indexed | Time stored; used to purge expired snapshots |
+| RATE_LIMIT_T | rlt_key | VARCHAR | 200 | PK, NOT NULL | Rate-limit key built from the user identifier or client address |
+| | rlt_window_start | TIMESTAMPTZ | | NOT NULL | Start of the current fixed window |
+| | rlt_hits | INTEGER | | NOT NULL | Requests counted in the window |
 
-	The schema is created by the versioned migration file `server/db/migrations/20261013000001_initial_schema.sql`, so that every later change is recorded as a new migration rather than an edit to the live database. Indexes are defined for the access paths that determine performance: published posts ordered by publication time for the feed, the GIN index on pst_search_doc and the hashtag index on POST_HASHTAG_T for the sub-three-second search target (FR5, NFR1), and the user and time index on INTERACTION_T for building interest vectors.
+
+	The schema is created by the versioned migration file `server/db/migrations/20261013000001_initial_schema.sql`, so that every later change is recorded as a new migration rather than an edit to the live database. Indexes are defined for the access paths that determine performance: published posts ordered by publication time for the feed, the GIN index on pst_search_doc and the hashtag index on POST_HASHTAG_T for the sub-three-second search target (FR5, NFR1), and the user and time index on INTERACTION_T for building interest vectors. Migrations added after the initial schema create further indexes, each for one access path:
+
+- `comment_like_comment_idx` on COMMENT_LIKE_T (clk_cmt_id): counts the likes of each comment when comments are listed.
+- `interaction_user_post_time_idx` on INTERACTION_T (int_usr_id, int_pst_id, int_created_at DESC): finds a viewer's latest interaction with a note for the view-logging window and the interest vector.
+- `report_post_idx` on REPORT_T (rpt_pst_id): groups reports by note in the moderation queue.
+- `message_request_recipient_pending_idx` on MESSAGE_REQUEST_T (mrq_recipient_id), partial on pending requests: lists a recipient's open requests without scanning resolved ones.
+- `follow_followee_idx` on FOLLOW_T (fol_followee_id): lists a user's followers and checks the reverse direction of a follow.
+- `feed_snapshot_created_idx` on FEED_SNAPSHOT_T (fsn_created_at): deletes expired snapshots.
+- `comment_parent_idx` on COMMENT_T (cmt_parent_id), partial on replies: checks whether a deleted top-level comment still has live replies.
+
